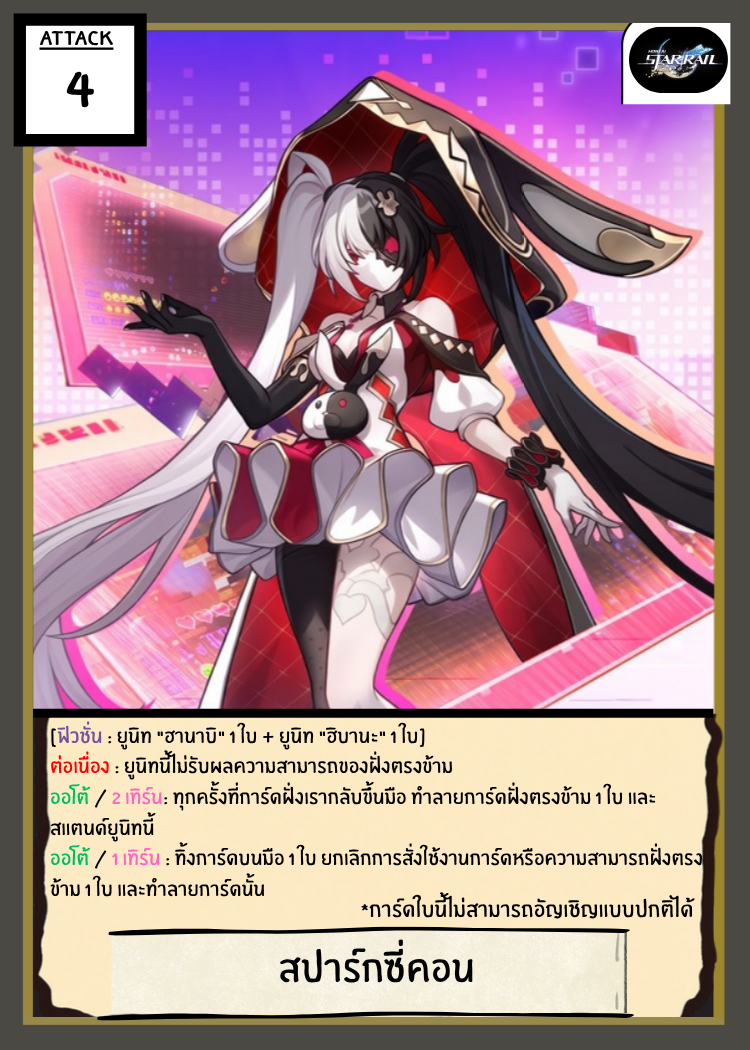
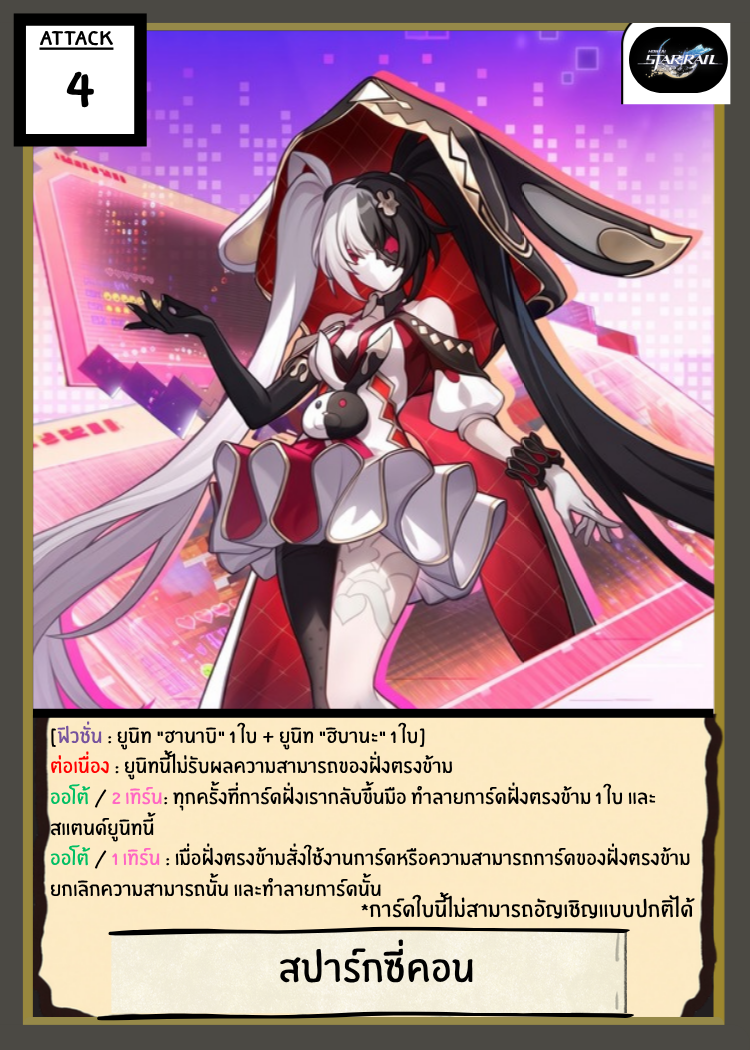
fix(bt02): update Sparkcon cancel-and-destroy without discard and enforce hard once-per-turn on Hibana Mask

Changed region(s): [[0.0613, 0.7924, 0.9507, 0.8533]]

diff --git a/js/game.js b/js/game.js
@@ -52,6 +52,79 @@ function isUnknownProtectingAbilities(contestant) {
   if (contestant.graveyard.length >= oppGraveLen) return false;
   return contestant.graveyard.some(c => c && (c.id === 'KL10' || (c.name && c.name.includes('THE UNKNOWN'))));
 }
+function isMonsterImmuneToEnemyEffects(monster, boardOwner = null) {
+  if (!monster) return false;
+  if (monster.immuneToEnemyEffectsUntilEndOfTurn) return true;
+  if (monster.id === 'BT02_04' || (monster.name && monster.name.includes('สปาร์กซี่คอน'))) return true;
+  if (boardOwner && Array.isArray(boardOwner.darkDimension) && boardOwner.darkDimension.some(d => d && (d.id === 'BT02_13' || (d.name && d.name.includes('THE NEMESIS')))) && (monster.id === 'BT02_11' || (monster.name && monster.name.includes('PROJECT UROBOROS-NE')))) return true;
+  if (boardOwner && Array.isArray(boardOwner.board) && boardOwner.board.some(m => m && m.id === 'BT02_09') && monster.name && monster.name.includes('THE')) return true;
+  return false;
+}
+function checkSparkconCancelBeforeAction(caster, card, proceedCallback) {
+  if (typeof gameState === 'undefined' || !gameState || !caster || !card) {
+    if (proceedCallback) proceedCallback();
+    return;
+  }
+  const opp = (caster === gameState.player) ? gameState.ai : gameState.player;
+  if (!opp || !Array.isArray(opp.board)) {
+    if (proceedCallback) proceedCallback();
+    return;
+  }
+  const sparkcon = opp.board.find(m => m && (m.id === 'BT02_04' || (m.name && m.name.includes('สปาร์กซี่คอน'))) && !m.sparkconNegateUsedThisTurn);
+  if (!sparkcon) {
+    if (proceedCallback) proceedCallback();
+    return;
+  }
+
+  const executeCancel = () => {
+    sparkcon.sparkconNegateUsedThisTurn = true;
+    const isAiOpp = (opp === gameState.ai);
+    showCardShowcaseBanner(sparkcon, (isAiOpp ? 'AI ' : '') + 'ออโต้ สปาร์กซี่คอน!', `🚫 ยกเลิกการสั่งใช้งานของ "${card.name}" และทำลายการ์ดนั้น!`, '#a855f7', 1500);
+    setLog(`🚫 [${isAiOpp ? 'AI ' : ''}ออโต้ - สปาร์กซี่คอน] ยกเลิกการสั่งใช้งานของ "${card.name}" และทำลายการ์ดนั้นลงนรก!`);
+
+    const bSlot = Array.isArray(caster.board) ? caster.board.findIndex(m => m && (m.uid === card.uid || m === card)) : -1;
+    if (bSlot !== -1) {
+      destroyBoardMonster(caster, bSlot, false, true);
+    } else {
+      const hIdx = Array.isArray(caster.hand) ? caster.hand.findIndex(c => c && (c.uid === card.uid || c === card)) : -1;
+      if (hIdx !== -1) {
+        const discarded = caster.hand.splice(hIdx, 1)[0];
+        resetCardStateForZoneChange(discarded);
+        caster.graveyard.push(discarded);
+        if (typeof checkDiscardTriggers === 'function') checkDiscardTriggers(caster, discarded);
+      }
+    }
+    renderGame();
+  };
+
+  if (opp === gameState.ai) {
+    if (typeof aiConfig !== 'undefined' && aiConfig.difficulty !== 'EASY') {
+      executeCancel();
+      return;
+    }
+    if (proceedCallback) proceedCallback();
+    return;
+  }
+
+  showChoiceModal(
+    '💥 ออโต้: สปาร์กซี่คอน',
+    `ฝ่ายตรงข้ามกำลังสั่งใช้งาน "${card.name}"!\n\nต้องการใช้ความสามารถของ "สปาร์กซี่คอน" ยกเลิกความสามารถนั้น และทำลายการ์ดนั้นหรือไม่? (ใช้ได้ 1 ครั้ง/เทิร์น)`,
+    [
+      {
+        label: `🚫 ยกเลิกความสามารถ และทำลาย "${card.name}"`,
+        color: '#dc2626',
+        onSelect: () => executeCancel()
+      },
+      {
+        label: '❌ ไม่ใช้สกิล (ปล่อยให้ทำงาน)',
+        color: '#475569',
+        onSelect: () => {
+          if (proceedCallback) proceedCallback();
+        }
+      }
+    ]
+  );
+}
 function getCardMaxCopies(cardTemplate) { return cardTemplate && cardTemplate.maxCopies !== undefined ? cardTemplate.maxCopies : 2; }
 
 // 📝 ระบบสร้างข้อความอธิบายความสามารถอัตโนมัติจากบล็อก effects (กรณีการ์ดใหม่ไม่ได้เขียน desc เอง)
@@ -539,8 +612,8 @@ function destroyBoardMonster(boardOwner, slotIndex, isFromBattle = false, isByEn
   }
 
   // สปาร์กซี่คอน (BT02_04): ต่อเนื่อง : ยูนิทนี้ไม่รับผลความสามารถของฝั่งตรงข้าม
-  if (isByEnemyEffect && monster.id === 'BT02_04' && !oppHasWelt) {
-    setLog(`🛡 [ต่อเนื่อง - สปาร์กซี่คอน] "${monster.name}" ไม่รับผลความสามารถของฝั่งตรงข้าม!`);
+  if (isByEnemyEffect && isMonsterImmuneToEnemyEffects(monster, boardOwner) && !oppHasWelt) {
+    setLog(`🛡 [ต่อเนื่อง - ไม่รับผลความสามารถ] "${monster.name}" ไม่รับผลความสามารถของฝั่งตรงข้าม!`);
     return { destroyed: false, reason: 'sparkcon_immune', monster };
   }
 
@@ -1276,6 +1349,24 @@ function askCardUseConfirmation(card, actionTitle, onConfirmCallback) {
                 showCardShowcaseBanner(unbodiedCard, 'AI ร่าย UNBODIED FLESH!', `🚫 ยกเลิกความสามารถของ "${card.name}"!`, '#dc2626', 1500);
               }
               setLog(`🚫 [AI - UNBODIED FLESH] AI ร่ายเวทรีแอค "UNBODIED FLESH" ยกเลิกความสามารถของ "${card.name}" สำเร็จ!`);
+              renderGame();
+              return;
+            }
+
+            // ตรวจสอบ สปาร์กซี่คอน (BT02_04) ของ AI: ออโต้ / 1 เทิร์น เมื่อฝั่งตรงข้ามสั่งใช้งานการ์ดหรือความสามารถการ์ด ยกเลิกความสามารถนั้น และทำลายการ์ดนั้น
+            const aiSparkcon = gameState.ai.board.find(m => m && (m.id === 'BT02_04' || (m.name && m.name.includes('สปาร์กซี่คอน'))));
+            if (aiSparkcon && !aiSparkcon.sparkconNegateUsedThisTurn && aiConfig.difficulty !== 'EASY') {
+              aiSparkcon.sparkconNegateUsedThisTurn = true;
+              const curIdx = gameState.player.hand.findIndex(c => c.uid === card.uid);
+              if (curIdx !== -1) {
+                const pSpell = gameState.player.hand.splice(curIdx, 1)[0];
+                if (pSpell.type === 'ReactionSpell') gameState.player.spellQuota.reactionUsed += 1;
+                else gameState.player.spellQuota.normalUsed += 1;
+                resetCardStateForZoneChange(pSpell);
+                gameState.player.graveyard.push(pSpell);
+              }
+              showCardShowcaseBanner(aiSparkcon, 'AI ออโต้ สปาร์กซี่คอน!', `🚫 ยกเลิกการใช้งานของ "${card.name}" และทำลายการ์ดนั้น!`, '#a855f7', 1500);
+              setLog(`🚫 [AI ออโต้ - สปาร์กซี่คอน] ยกเลิกการสั่งใช้งานของ "${card.name}" และทำลายการ์ดนั้นลงนรก!`);
               renderGame();
               return;
             }
@@ -2154,7 +2245,7 @@ function notifyCardReturnedToHand(owner, card) {
         m.state = 'Stand';
         setLog(`💥 [ออโต้ - สปาร์กซี่คอน] การ์ดฝั่งเรากลับขึ้นมือ (${m.sparkconBounceTriggerCountThisTurn}/2)! สแตร์น สปาร์กซี่คอน และทำลายการ์ดฝั่งตรงข้าม 1 ใบ!`);
         const opp = (owner === gameState.player) ? gameState.ai : gameState.player;
-        const validOppSlots = opp.board.map((em, idx) => (em !== null && em.id !== 'BT02_04' && !em.immuneToEnemyEffectsUntilEndOfTurn ? idx : null)).filter(idx => idx !== null);
+        const validOppSlots = opp.board.map((em, idx) => (em !== null && !isMonsterImmuneToEnemyEffects(em, opp) ? idx : null)).filter(idx => idx !== null);
         if (validOppSlots.length > 0) {
           if (owner === gameState.player) {
             promptDestroyEnemyMonster(opp, validOppSlots, '💥 สปาร์กซี่คอน: เลือกทำลายยูนิตฝ่ายตรงข้าม 1 ใบ!');
@@ -2427,15 +2518,56 @@ function checkEnterBattlePhaseHibana(contestant, onComplete) {
   }
 }
 
-function activateMaskHibanaHandSkill(player, handIndex) {
-  if (player.maskHibanaUsedThisTurn) {
-    setLog('❌ สามารถสั่งใช้งาน "ฮิบานะหน้ากากมายา" ได้เพียงเทิร์นละ 1 ครั้งเท่านั้น!');
+function activateMaskHibanaHandSkill(contestant, handIndex) {
+  if (contestant.maskHibanaUsedThisTurn) {
+    setLog('❌ ความสามารถนี้สามารถใช้งานการ์ดชื่อเดียวกันได้เพียงแค่เทิร์นละ 1 ครั้งเท่านั้น!');
     return;
   }
-  const opp = gameState.ai;
-  const oppUnits = opp.board.map((m, idx) => m && !m.immuneToEnemyEffectsUntilEndOfTurn && m.id !== 'BT02_04' ? { m, slot: idx } : null).filter(Boolean);
+  const opp = (contestant === gameState.player) ? gameState.ai : gameState.player;
+  const oppUnits = opp.board.map((m, idx) => m && !isMonsterImmuneToEnemyEffects(m, opp) ? { m, slot: idx } : null).filter(Boolean);
   if (oppUnits.length === 0) {
-    setLog('❌ ฝ่ายตรงข้ามไม่มียูนิทบนสนามให้ยกเลิกความสามารถ!');
+    if (contestant === gameState.player) {
+      setLog('❌ ฝ่ายตรงข้ามไม่มียูนิทบนสนามให้ยกเลิกความสามารถ!');
+    }
+    return;
+  }
+
+  // ตรวจสอบ สปาร์กซี่คอน (BT02_04) ของฝ่ายตรงข้าม
+  const oppSparkcon = opp.board.find(m => m && (m.id === 'BT02_04' || (m.name && m.name.includes('สปาร์กซี่คอน'))) && !m.sparkconNegateUsedThisTurn);
+  if (oppSparkcon && (opp !== gameState.ai || aiConfig.difficulty !== 'EASY')) {
+    oppSparkcon.sparkconNegateUsedThisTurn = true;
+    const card = contestant.hand.splice(handIndex, 1)[0];
+    resetCardStateForZoneChange(card);
+    contestant.graveyard.push(card);
+    contestant.maskHibanaUsedThisTurn = true;
+    const isAiOpp = (opp === gameState.ai);
+    showCardShowcaseBanner(oppSparkcon, (isAiOpp ? 'AI ' : '') + 'ออโต้ สปาร์กซี่คอน!', `🚫 ยกเลิกความสามารถของ "${card.name}" และทำลายการ์ดนั้น!`, '#a855f7', 1500);
+    setLog(`🚫 [${isAiOpp ? 'AI ' : ''}ออโต้ - สปาร์กซี่คอน] ยกเลิกการสั่งใช้งานของ "${card.name}" และทำลายการ์ดนั้นลงนรก!`);
+    renderGame();
+    return;
+  }
+
+  if (contestant !== gameState.player) {
+    oppUnits.sort((a, b) => getEffectivePower(b.m, opp) - getEffectivePower(a.m, opp));
+    const target = oppUnits[0];
+    const card = contestant.hand.splice(handIndex, 1)[0];
+    resetCardStateForZoneChange(card);
+    contestant.graveyard.push(card);
+    contestant.maskHibanaUsedThisTurn = true;
+
+    const targetUnit = opp.board[target.slot];
+    if (targetUnit) {
+      targetUnit.isSilencedUntilEndOfTurn = true;
+      setLog(`🎭 [AI ฮิบานะหน้ากากมายา] ยกเลิกความสามารถของ "${targetUnit.name}" จนจบเทิร์น!`);
+    }
+    opp.leader.hp = Math.max(0, opp.leader.hp - 1);
+    if (typeof fxLeaderDamage === 'function') fxLeaderDamage(opp);
+    setLog(`💔 [AI ฮิบานะหน้ากากมายา] ลีดเดอร์ของคุณสูญเสียพลังชีวิต 1 หน่วย (เหลือ ${opp.leader.hp})!`);
+
+    if (typeof checkDiscardTriggers === 'function') {
+      checkDiscardTriggers(contestant, card);
+    }
+    renderGame();
     return;
   }
 
@@ -2443,10 +2575,10 @@ function activateMaskHibanaHandSkill(player, handIndex) {
     label: `ยกเลิกความสามารถ "${u.m.name}" (ช่อง ${u.slot + 1})`,
     color: '#7c3aed',
     onSelect: () => {
-      const card = player.hand.splice(handIndex, 1)[0];
+      const card = contestant.hand.splice(handIndex, 1)[0];
       resetCardStateForZoneChange(card);
-      player.graveyard.push(card);
-      player.maskHibanaUsedThisTurn = true;
+      contestant.graveyard.push(card);
+      contestant.maskHibanaUsedThisTurn = true;
 
       const targetUnit = opp.board[u.slot];
       if (targetUnit) {
@@ -2458,7 +2590,7 @@ function activateMaskHibanaHandSkill(player, handIndex) {
       setLog(`💔 ลีดเดอร์ฝ่ายตรงข้ามสูญเสียพลังชีวิต 1 หน่วย (เหลือ ${opp.leader.hp})!`);
 
       if (typeof checkDiscardTriggers === 'function') {
-        checkDiscardTriggers(player, card);
+        checkDiscardTriggers(contestant, card);
       }
       renderGame();
     }
@@ -3021,7 +3153,7 @@ function triggerMastermindSummonNemesis(contestant, onDone = null) {
 // 💥 THE NEMESIS (BT02_13): ออโต้ เมื่อลงสนามทำลายยูนิทฝั่งตรงข้าม 1 ใบ
 function triggerNemesisSummonDestroy(contestant, onDone = null) {
   const opp = (contestant === gameState.player) ? gameState.ai : gameState.player;
-  const oppMonsters = opp.board.map((m, idx) => (m && !m.immuneToEnemyEffectsUntilEndOfTurn && m.id !== 'BT02_04' ? { m, slot: idx } : null)).filter(Boolean);
+  const oppMonsters = opp.board.map((m, idx) => (m && !isMonsterImmuneToEnemyEffects(m, opp) ? { m, slot: idx } : null)).filter(Boolean);
 
   if (oppMonsters.length === 0) {
     if (onDone) onDone();
@@ -3687,6 +3819,13 @@ const EffectEngine = {
         if (onComplete) onComplete();
       });
     };
+
+    if (effectDef.trigger === 'CAST_SPELL' || effectDef.trigger === 'ACTIVATE_MAIN' || effectDef.trigger === 'ACTIVATE_LEADER') {
+      checkSparkconCancelBeforeAction(context.caster, context.sourceCard, () => {
+        this.runCostQueue(costQueue, context, markSkillUsedAndRunSteps);
+      });
+      return;
+    }
 
     this.runCostQueue(costQueue, context, markSkillUsedAndRunSteps);
   },
@@ -5443,6 +5582,17 @@ function activateMonsterOnBoardPlayer(slotIndex) {
   const player = gameState.player;
   const monster = player.board[slotIndex];
   if (!monster) return;
+
+  // ตรวจสอบ สปาร์กซี่คอน (BT02_04) ของ AI: ออโต้ / 1 เทิร์น เมื่อฝั่งตรงข้ามสั่งใช้งานการ์ดหรือความสามารถการ์ด ยกเลิกความสามารถนั้น และทำลายการ์ดนั้น
+  const aiSparkcon = gameState.ai.board.find(m => m && (m.id === 'BT02_04' || (m.name && m.name.includes('สปาร์กซี่คอน'))) && !m.sparkconNegateUsedThisTurn);
+  if (aiSparkcon && typeof aiConfig !== 'undefined' && aiConfig.difficulty !== 'EASY') {
+    aiSparkcon.sparkconNegateUsedThisTurn = true;
+    showCardShowcaseBanner(aiSparkcon, 'AI ออโต้ สปาร์กซี่คอน!', `🚫 ยกเลิกความสามารถของ "${monster.name}" และทำลายการ์ดนั้น!`, '#a855f7', 1500);
+    setLog(`🚫 [AI ออโต้ - สปาร์กซี่คอน] ยกเลิกการสั่งใช้งานความสามารถของ "${monster.name}" และทำลายยูนิทนั้นลงนรก!`);
+    destroyBoardMonster(player, slotIndex, false, true);
+    renderGame();
+    return;
+  }
 
   // 🌌 TRAILBLAZER (RD01): สั่งใช้งานบนสนาม 1/เทิร์น นำการ์ดจากนรกเราไม่เกิน 2 ใบ กลับเข้ากอง
   if (monster.id === 'RD01') {
@@ -8233,7 +8383,9 @@ function handleHandCardClick(handIndex) {
         'เลือกรูปแบบการใช้งาน "ฮิบานะหน้ากากมายา":',
         [
           {
-            label: '🎭 สั่งใช้งานจากบนมือ (ทิ้งการ์ดนี้ลงนรก ยกเลิกความสามารถยูนิทฝั่งตรงข้าม 1 ใบจนจบเทิร์น และลีดเดอร์เสีย HP 1)',
+            label: player.maskHibanaUsedThisTurn
+              ? '🔒 สั่งใช้งานจากบนมือ (ความสามารถนี้ใช้งานการ์ดชื่อเดียวกันได้เพียงแค่เทิร์นละ 1 ครั้งเท่านั้น)'
+              : '🎭 สั่งใช้งานจากบนมือ (ทิ้งการ์ดนี้ลงนรก ยกเลิกความสามารถยูนิทฝั่งตรงข้าม 1 ใบจนจบเทิร์น และลีดเดอร์เสีย HP 1)',
             disabled: !canSilence,
             color: '#7c3aed',
             onSelect: () => activateMaskHibanaHandSkill(player, handIndex)

diff --git a/js/cards/bt02.js b/js/cards/bt02.js
@@ -57,7 +57,7 @@ CARD_DATABASE.push(
     isFusion: true,
     cannotNormalSummon: true,
     ability: 'SPARK_CON_FUSION',
-    desc: '[ฟิวชั่น : ยูนิท "ฮานาบิ" 1 ใบ + ยูนิท "ฮิบานะ" 1 ใบ]\nต่อเนื่อง : ยูนิทนี้ไม่รับผลความสามารถของฝั่งตรงข้าม\nออโต้ / 2 ครั้งต่อเทิร์น : ทุกครั้งที่การ์ดฝั่งเรากลับขึ้นมือ ทำลายการ์ดฝั่งตรงข้าม 1 ใบ และสแตนด์ยูนิทนี้\nออโต้ / 1 เทิร์น : ทิ้งการ์ดบนมือ 1 ใบ ยกเลิกการสั่งใช้งานการ์ดหรือความสามารถฝั่งตรงข้าม 1 ใบ และทำลายการ์ดนั้น\n*การ์ดใบนี้ไม่สามารถอัญเชิญแบบปกติได้'
+    desc: '[ฟิวชั่น : ยูนิท "ฮานาบิ" 1 ใบ + ยูนิท "ฮิบานะ" 1 ใบ]\nต่อเนื่อง : ยูนิทนี้ไม่รับผลความสามารถของฝั่งตรงข้าม\nออโต้ / 2 เทิร์น : ทุกครั้งที่การ์ดฝั่งเรากลับขึ้นมือ ทำลายการ์ดฝั่งตรงข้าม 1 ใบ และสแตนด์ยูนิทนี้\nออโต้ / 1 เทิร์น : เมื่อฝั่งตรงข้ามสั่งใช้งานการ์ดหรือความสามารถการ์ดของฝั่งตรงข้ามยกเลิกความสามารถนั้น และทำลายการ์ดนั้น\n*การ์ดใบนี้ไม่สามารถอัญเชิญแบบปกติได้'
   },
   {
     id: 'BT02_05',

diff --git a/index.html b/index.html
@@ -996,11 +996,11 @@
   <script src="js/cards/rangdao.js?v=20261120a"></script>
   <script src="js/cards/killer.js?v=20261120a"></script>
   <script src="js/cards/bt01.js?v=20261117d"></script>
-  <script src="js/cards/bt02.js?v=20261120b"></script>
+  <script src="js/cards/bt02.js?v=20261120c"></script>
   <script src="js/cards/schema.js?v=20261118p"></script>
   <script src="js/audio.js"></script>
   <script src="js/bof-icons.js"></script>
-  <script src="js/game.js?v=20261120e"></script>
+  <script src="js/game.js?v=20261120f"></script>
   <script src="js/hand-shuffle.js"></script>
   <script src="js/summon-fx.js"></script>
   <script src="js/card-drag.js?v=20261115h"></script>
